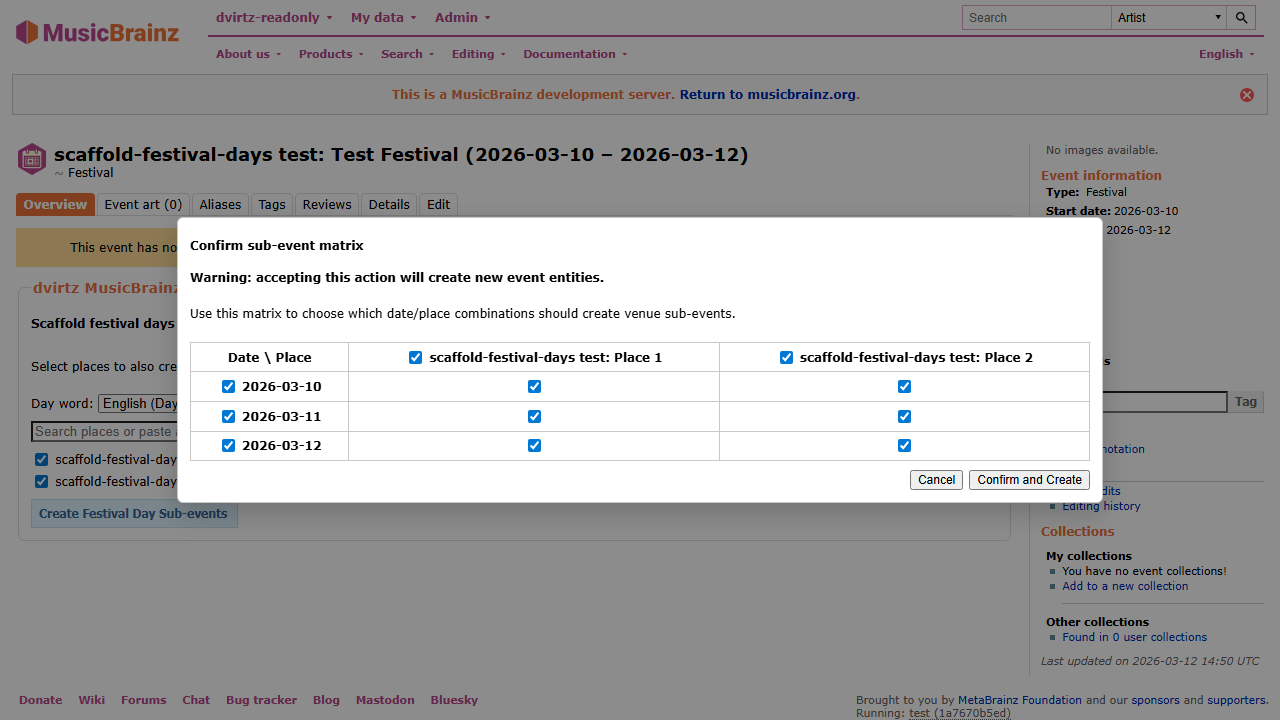
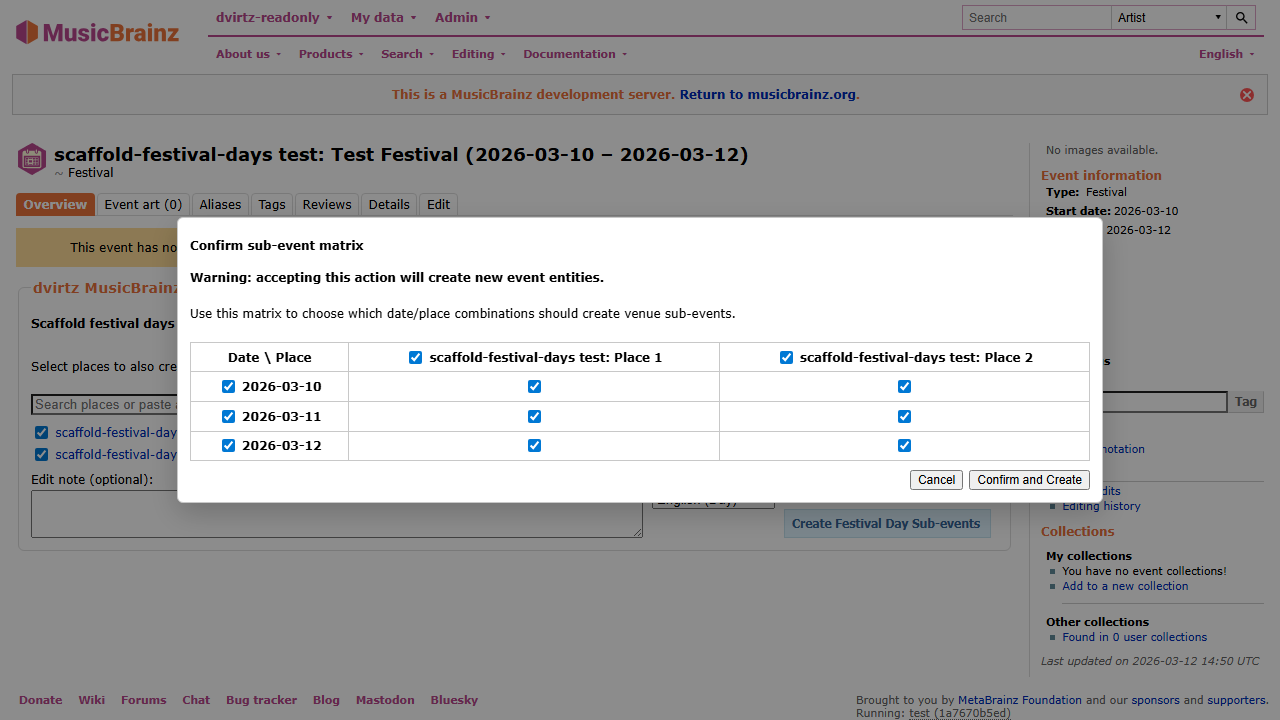
feat(scaffold-festival-days): update UI layout and screenshots

Changed region(s): [[0.0, 0.55, 0.1875, 0.7333], [0.5938, 0.7028, 0.7812, 0.7333]]

diff --git a/scripts/scaffold-festival-days/src/ui.tsx b/scripts/scaffold-festival-days/src/ui.tsx
@@ -265,7 +265,7 @@ function ScaffoldFestivalUI(props: {event: MBEvent; places: MBPlace[]; dayWord: 
             class={classes.customEditNoteInput}
             value={customEditNote()}
             onInput={event => setCustomEditNote(event.currentTarget.value)}
-            rows={2}
+            rows={3}
             disabled={isCreating()}
           />
         </div>
@@ -293,20 +293,21 @@ function ScaffoldFestivalUI(props: {event: MBEvent; places: MBPlace[]; dayWord: 
               </For>
               <option value={CUSTOM_SENTINEL}>Custom…</option>
             </select>
-            <Show when={isCustomDayWord()}>
-              <input
-                type="text"
-                value={dayWord()}
-                onInput={e => {
-                  const value = (e.target as HTMLInputElement).value;
-                  setIsCustomDayWord(true);
-                  setDayWord(value);
-                  GM.setValue(DAY_WORD_STORAGE_KEY, value).catch(console.error);
-                }}
-                disabled={isCreating()}
-                style={{'margin-left': '4px', width: '6em'}}
-              />
-            </Show>
+            <input
+              class={classes.customDayWordInput}
+              type="text"
+              value={dayWord()}
+              onInput={e => {
+                const value = (e.target as HTMLInputElement).value;
+                setIsCustomDayWord(true);
+                setDayWord(value);
+                GM.setValue(DAY_WORD_STORAGE_KEY, value).catch(console.error);
+              }}
+              disabled={isCreating() || !isCustomDayWord()}
+              style={{visibility: isCustomDayWord() ? 'visible' : 'hidden'}}
+              aria-hidden={!isCustomDayWord()}
+              tabindex={isCustomDayWord() ? 0 : -1}
+            />
           </div>
         </Show>
         <div class={`buttons ${classes.actionsButtons}`}>

diff --git a/scripts/scaffold-festival-days/src/ui.module.css b/scripts/scaffold-festival-days/src/ui.module.css
@@ -50,7 +50,7 @@
 
 .actionsRow {
   display: flex;
-  align-items: flex-end;
+  align-items: flex-start;
   flex-wrap: wrap;
   gap: 0.75rem;
 }
@@ -75,6 +75,11 @@
   gap: 0.25rem;
 }
 
+.customDayWordInput {
+  width: 6em;
+}
+
 .actionsButtons {
   margin-left: auto;
+  align-self: flex-end;
 }
